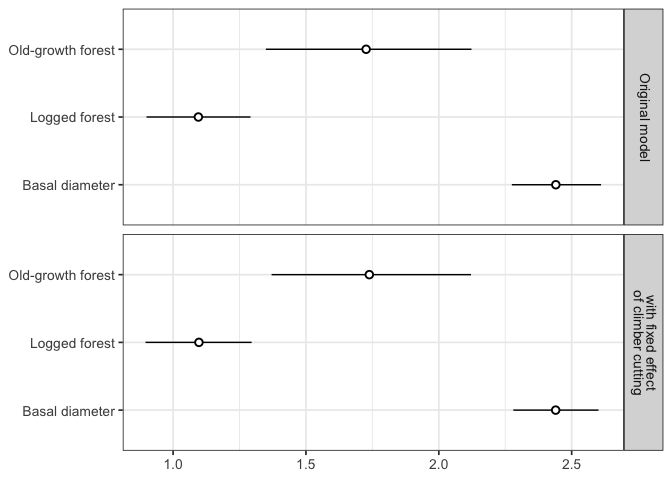
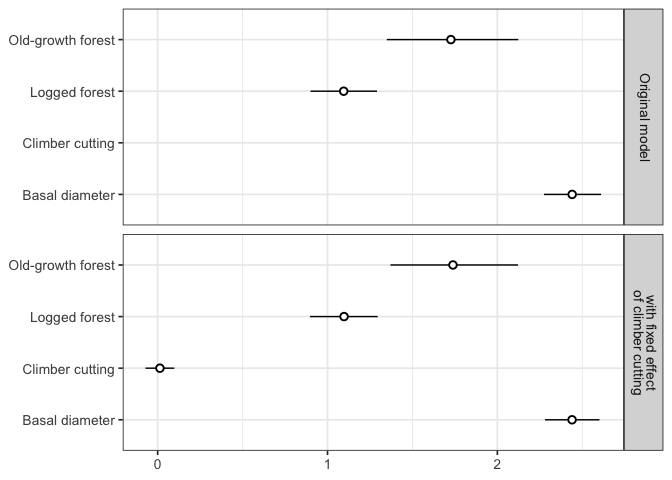
Include climate cutting effect in figure

diff --git a/code/notebooks/2025-09-09_supp-climber-cutting.md b/code/notebooks/2025-09-09_supp-climber-cutting.md
@@ -1,6 +1,6 @@
 # Supplementary Information for the climber cutting plots
 eleanorjackson
-2025-09-09
+2025-09-11
 
 ``` r
 library("tidyverse")
@@ -139,7 +139,6 @@ my_coef_tab_survival <-
   select(-fit) %>% 
   unnest(tidy) %>% 
   filter(!grepl("prior", term)) %>% 
-  filter(!grepl("cut", term)) %>% 
   rowwise() %>% 
   mutate(forest_type = pluck(strsplit(term, "_"), 1, 2)) %>%
   mutate(forest_type = str_remove(forest_type, "type")) %>% 
@@ -148,6 +147,7 @@ my_coef_tab_survival <-
              forest_type == "primary" ~ "Old-growth forest",
              forest_type == "logged" ~ "Logged forest",
              forest_type == "mean" ~ "Basal diameter",
+             forest_type == "cut1" ~ "Climber cutting",
              .default = forest_type
              )) 
 ```
